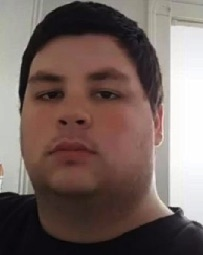
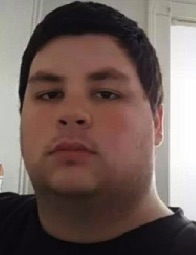
about.html: finished styling developer 1, completed photo edits, changed padding on divider amd credits area, centered temp footer/copyright

diff --git a/about.html b/about.html
@@ -11,7 +11,7 @@
 <!-- doctype ends -->
 
 <!-- body starts -->
-<section class="is-flex-direction-column">
+<section>
   <!-- header / navigation starts -->
   <header>
 
@@ -22,7 +22,7 @@
   <section class="section">
     <div class="container">
       <div class="columns">
-        <div class="column">
+        <div class="column py-0">
               <img class="is-mobile about-cover" src="./assets/images/about-cover.jpg" alt="bookcover line drawing with a red bookshelf and About Anytime Books Title" style="max-width: 450px;">
         </div>
         <div class="column is-size-4">
@@ -41,7 +41,7 @@
   <!-- about anytime books section ends-->
 
   <!-- credits section starts -->
-  <section class="section">
+  <section class="section py-0">
     <div class="title has-text-centered">
       <p>
         Credits
@@ -61,16 +61,16 @@
             </div>
           </div>
           <div>
-            <h3 class="is-size-5 has-text-weight-bold">Intro</h3>
+            <h3 class="is-size-5 has-text-weight-bold pt-3">Intro</h3>
             <p>Full-Stack Web Developer with skills in HTML, CSS, JavaScript, Responsive Design, Accessibility and more. I love design.</p>
           </div>
           <div>
-            <h4 class="is-size-5 has-text-weight-bold">Contact Me</h4>
+            <h4 class="is-size-5 has-text-weight-bold pt-3">Contact Me</h4>
             <address>
-              <a class="has-text-link is-size-5 pr-3" href="tel:+15555555555">Call Me</a>
-              <a class="has-text-link is-size-5 pr-3" href="mailto:/">Email</a>
-              <a class="has-text-link is-size-5 pr-3" href="https://github.com/finagjon">GitHub</a>
-              <a class="has-text-link is-size-5 pr-3" href="https://linkedin.com/">LinkedIn</a>
+              <a class="has-text-link is-size-5 pr-6" href="tel:+15555555555">Call Me</a>
+              <a class="has-text-link is-size-5 pr-6" href="mailto:/">Email</a>
+              <a class="has-text-link is-size-5 pr-6" href="https://github.com/finagjon">GitHub</a>
+              <a class="has-text-link is-size-5 pr-6" href="https://linkedin.com/">LinkedIn</a>
             </address>          
           </div>
         </div>
@@ -190,7 +190,7 @@
   <!-- credits section ends -->
 
   <!-- footer starts-->
-  <footer>
+  <footer class="has-text-centered">
     ©2021 Gjonbalaj, Maki, Mateo, Powers, Winslow
   </footer>
   <!-- footer ends -->
